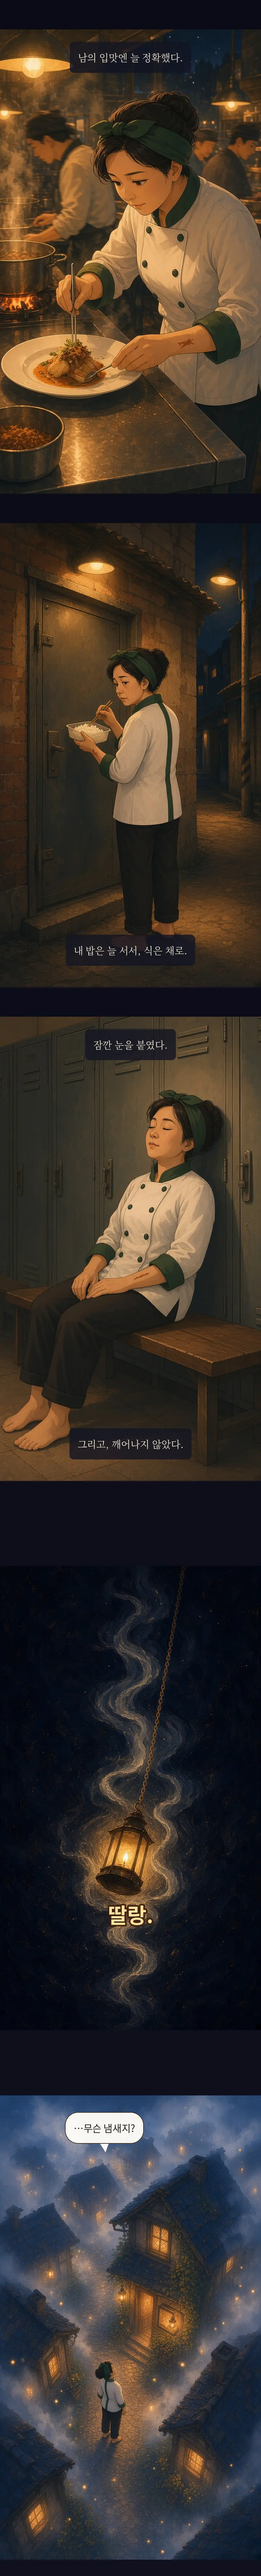
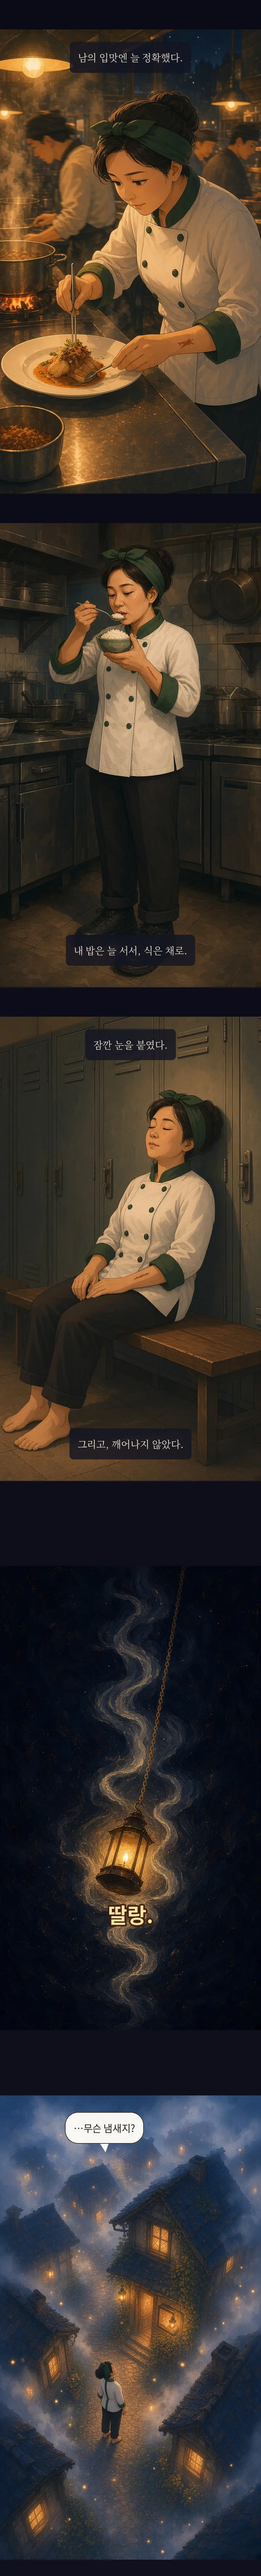
webtoon/night: ep4 2컷 주방 장면 교체 + 홈 상단 웹툰 1~30화 버튼

Changed region(s): [[0.0, 0.1871, 1.0, 0.4053]]

diff --git a/index.html b/index.html
@@ -169,7 +169,7 @@ footer .legal a{color:#9aa096}</style>
 <li class="zn-has"><button class="zn-dd" type="button" aria-expanded="false" aria-controls="zn-sub-about">회사소개<svg viewBox="0 0 24 24" fill="none" stroke="currentColor" stroke-width="2" aria-hidden="true"><path d="m6 9 6 6 6-6"/></svg></button><ul class="zn-sub" id="zn-sub-about"><li><a href="/about/brand/">브랜드 소개·본질</a></li><li><a href="/about/">회사소개</a></li><li><a href="/about/#ceo">대표 연혁</a></li><li><a href="/about/#assistant">비서 소개</a></li><li><a href="/about/#office">사무실 소개</a></li><li><a href="/about/org/">조직도</a></li></ul></li>
 </ul></div></nav>
 
-<main id="top">
+<main id="top"><div style="text-align:center;padding:14px 16px 0"><a class="zs-btn" href="/webtoon/night/" style="display:inline-block;background:#1f2a24;color:#f3ead8;padding:12px 20px;border-radius:999px;font-weight:700;text-decoration:none">웹툰 「어느 밤의 상점」 1~30화 보기 →</a></div>
 <section id="wayfind" aria-label="길찾기"><style>
 #wayfind{background:#000;color:#fff;padding:28px 18px 30px;font-family:'Pretendard','Noto Sans KR',sans-serif;word-break:keep-all;border-bottom:1px solid rgba(216,181,106,.35)}
 #wayfind .in{max-width:880px;margin:0 auto}
